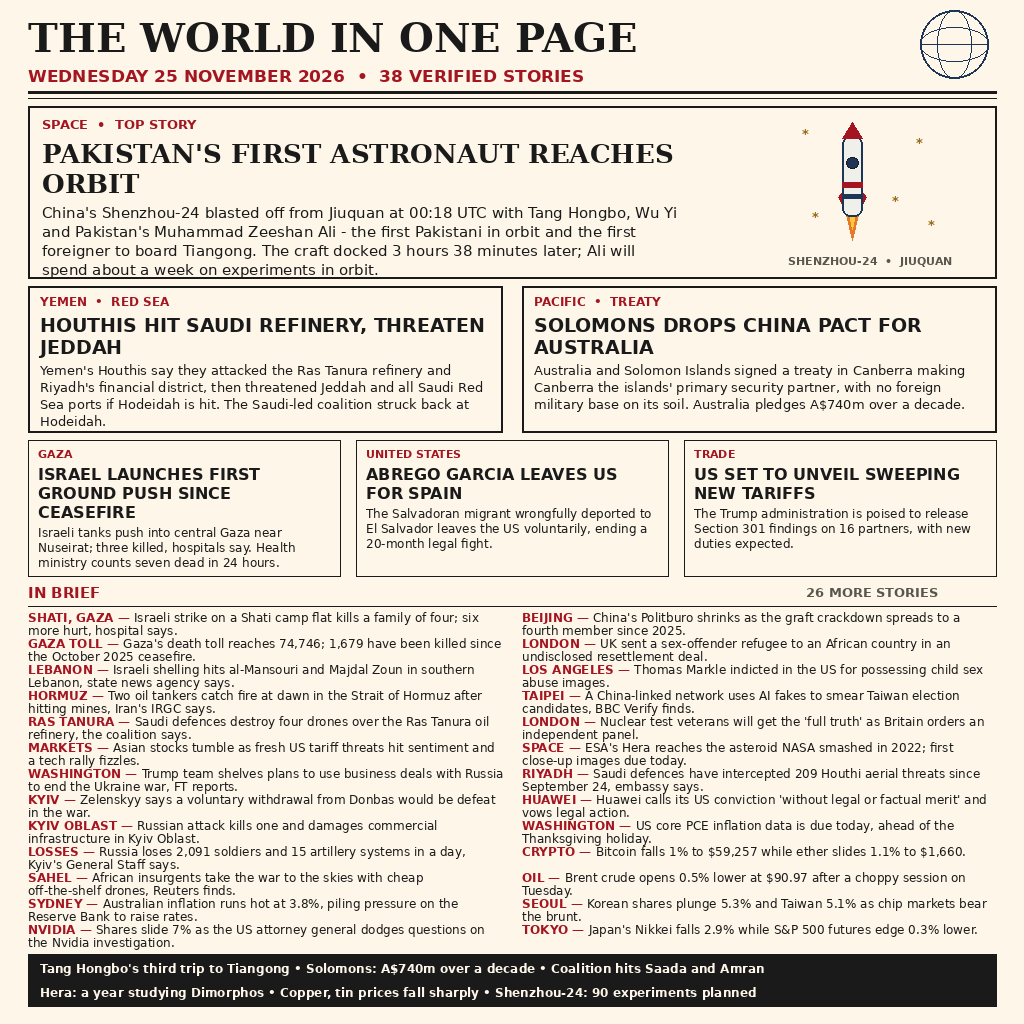
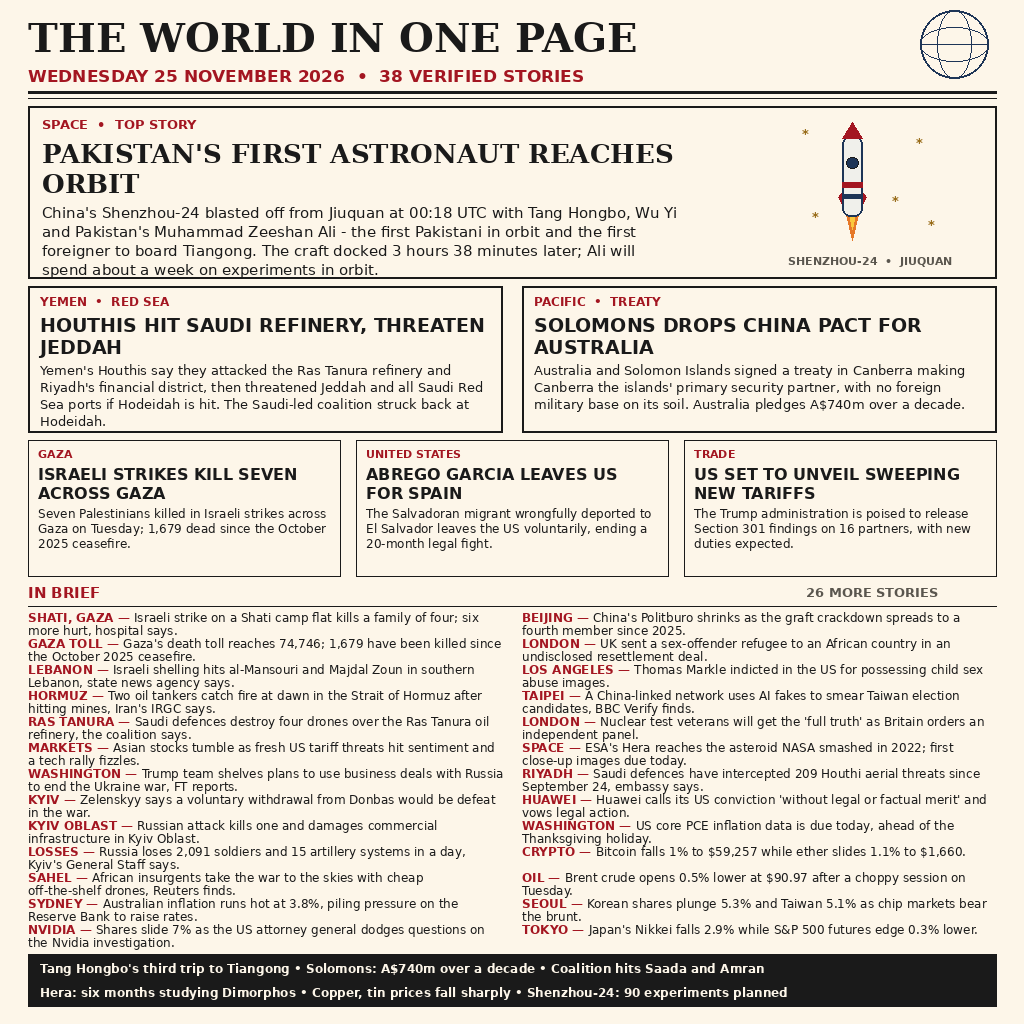
news-image-20261125 r2: fix Gaza small (ground push was 18 Nov; Tuesday strikes killed seven) and Hera ticker (six months, not a year)

diff --git a/draw.py b/draw.py
@@ -76,10 +76,9 @@ MEDIUM = [
 SMALL = [
     {
         "kicker": "GAZA",
-        "headline": "ISRAEL LAUNCHES FIRST GROUND PUSH SINCE CEASEFIRE",
-        "body": ("Israeli tanks push into central Gaza near Nuseirat; three "
-                 "killed, hospitals say. Health ministry counts seven dead "
-                 "in 24 hours."),
+        "headline": "ISRAELI STRIKES KILL SEVEN ACROSS GAZA",
+        "body": ("Seven Palestinians killed in Israeli strikes across Gaza "
+                 "on Tuesday; 1,679 dead since the October 2025 ceasefire."),
     },
     {
         "kicker": "UNITED STATES",
@@ -131,7 +130,7 @@ TICKER = [
     "Tang Hongbo's third trip to Tiangong",
     "Solomons: A$740m over a decade",
     "Coalition hits Saada and Amran",
-    "Hera: a year studying Dimorphos",
+    "Hera: six months studying Dimorphos",
     "Copper, tin prices fall sharply",
     "Shenzhou-24: 90 experiments planned",
 ]
